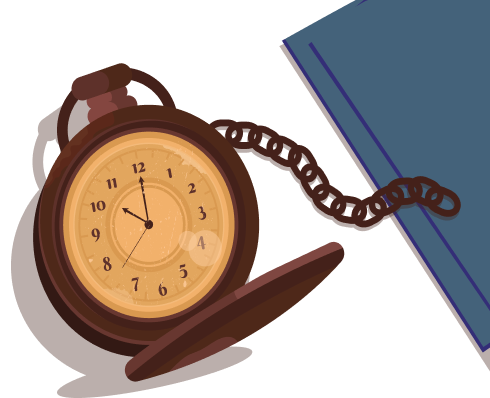
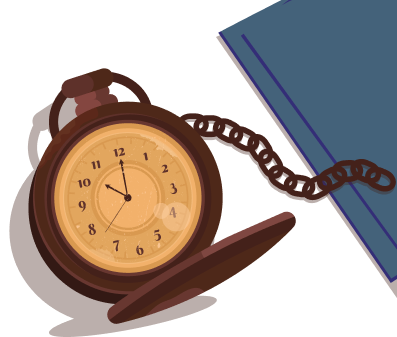
Registration form updated

diff --git a/Registration Form/style.css b/Registration Form/style.css
@@ -1,171 +1,67 @@
+@import url('https://fonts.googleapis.com/css2?family=Poppins&display=swap');
+@import url('https://fonts.googleapis.com/css2?family=Audiowide&display=swap');
+
 body{
   height: 100vh;
-  /* background: url('parts.png') no-repeat /*center  center/cover*/; 
-  background-color: rgb(35, 49, 87);
-  /* background-size: 100%; */
+}
+
+.hero-container{
   display: flex;
   flex-direction: column;
   align-items: center;
-  justify-content: center;
-}
-
-.card{
-  overflow: hidden;
-  border: 0 !important;
-  border-radius: 20px !important;
-  box-shadow: 0 0.5rem 1rem 0 rgba(0, 0, 0, 0.1);
-}
-
-.img-right{
-  width: 45%;
-  background: url('clock.png') center no-repeat;
-  background-size: contain;
-  background-color: #F4D366;
-  
-}
-
-.card-body{
-  padding: 2rem;
-  background-color: #F4D366;
-}
-
-.title{
-  margin-bottom: 2rem;
-}
-/* .......................... */
-
-
-/* .form-input{
-  position: relative;
-}
-
-.form-input input{
+  background-color: #233157;
+  background-image: url('./Images/Background.png');
+  background-repeat: repeat-y;
   width: 100%;
-  height: 45px;
-  padding-left: 40px;
+  height: 100vh;
+  padding-top: 60px;
+}
+
+.primary-title{
+  font-family: 'Audiowide', cursive;
+  margin-bottom: 40px;
+  color: white;
+}
+
+.secondary-title{
+  text-align: center;
+  font-size: 26px;
+  margin-bottom: 40px;
+  font-weight: 600;
+}
+
+.hero-form {
+  width: 900px;
+  background: #F4D366;
+  padding: 30px 0px 30px 30px;
+  border-radius: 40px;
+  font-family: 'Poppins', sans-serif !important;
+}
+
+.form{
+  width: 100%;
+}
+
+.form-container{
+  display: flex;
+}
+
+.form-component{
   margin-bottom: 20px;
-  box-sizing: border-box;
-  box-shadow: none;
-  border: 1px solid #00000020;
-  border-radius: 50px;
-  outline: none;
-  background: transparent;
 }
 
-.form-input span{
-  position: absolute;
-  top: 10px;
-  padding-left: 15px;
-  color: #007bff;
+.form-control{
+  background-color: transparent !important;
+  border: none !important;
+  border-bottom: 2px solid !important;
+  padding: 0px 5px !important;
 }
 
-.form-input input::placeholder{
-  color: black;
-  padding-left: 0px;
+.form-control:focus{
+  box-shadow: none !important;
 }
 
-.form-input input:focus, .form-input input:valid{
-  border: 2px solid #007bff;
-}
-
-.form-input input:focus::placeholder{
-  color: #454b69;
-}
-
-
-.form-box button[type="submit"]{
-  margin-top: 10px;
-  border: none;
-  cursor: pointer;
-  border-radius: 20px;
-  background: #44627A;
-  color: #fff;
-  font-size: 90%;
-  font-weight: bold;
-  letter-spacing: .1rem;
-  transition: 0.5s;
-  padding: 12px;
-  width: 30%;
-}
-
-.form-box button[type="submit"]:hover{
-  background: #0069d9;
-} */
-/* ........................... */
-
-/* 
-.button{
-  color: #fff;
-  margin-top: 40px;
-}
-.button input{
-  color: #fff;
-  padding: 0;
-  cursor: pointer;
-  transition: all 0.4s ease;
-  background: #53748E;
-  box-shadow: -3px 8px 4px rgba(0, 0, 0, 0.25);
-  border-radius: 22px;
-  width: 7rem;
-}
-
-.button input:hover{
-  background: #314d63;
-}
-
-.input-box input{
-  height: 100%;
-  width: 100%;
-  outline: none;
-  border: none;
-  font-size: 16px;
+.label{
+  margin-bottom: 0 !important;
   font-weight: 500;
-  border-bottom: 2px solid rgba(0,0,0,0.2);
-  transition: all 0.3s ease;
-  background:transparent;
-} */
-
-
-
-
-.input-boxes {
-  margin-top: 30px;
 }
-.forms .form-content .input-box{
-display: flex;
-align-items: center;
-height: 50px;
-width: 100%;
-margin: 5px 0;
-position: relative;
-}
-.input-box input{
-height: 100%;
-width: 80%;
-outline: none;
-border: none;
-font-size: 16px;
-font-weight: 500;
-border-bottom: 2px solid rgba(0,0,0,0.2);
-transition: all 0.3s ease;
-background:transparent;
-}
-
-.forms .form-content .button{
-color: rgb(255, 255, 255);
-margin-top: 40px;
-}
-.forms .form-content .button input{
-color: #fff;
-padding: 0;
-cursor: pointer;
-transition: all 0.4s ease;
-background: #53748E;
-box-shadow: -3px 8px 4px rgba(0, 0, 0, 0.25);
-border-radius: 22px;
-}
-.forms .form-content .button input:hover{
-background: #314d63;
-
-}
-

diff --git a/Registration Form/index.html b/Registration Form/index.html
@@ -7,59 +7,59 @@
   <meta name="viewport" content="width=device-width, initial-scale=1, shrink-to-fit=no">
   <link rel="stylesheet" type="text/css" href="style.css">
   <link rel="stylesheet" href="https://stackpath.bootstrapcdn.com/bootstrap/4.5.0/css/bootstrap.min.css">
+  <link href="https://fonts.googleapis.com/css2?family=Poppins&display=swap" rel="stylesheet">
   <link href="https://stackpath.bootstrapcdn.com/font-awesome/4.7.0/css/font-awesome.min.css" rel="stylesheet">
   <script src="https://code.jquery.com/jquery-3.5.1.slim.min.js"></script>
 </head>
 
 <body>
-  <div class="container">
-    <div class="row px-3">
-      <div class="col-lg-10 col-xl-9 card flex-row mx-auto px-0">
-        
-
-        <div class="card-body">
-          <h4 class="title text-center mt-4">
-            REGISTRATION FORM
-          </h4>
-
-          <form action="#">
-            <div class="input-boxes">
-              <label for="firstName">Firstname</label>
-              <div class="input-box">
-                <input type="text"  required>
-              </div>
-              <label for="collegeName">College Name</label>
-              <div class="input-box">
-                <input type="text"  required>
-              </div>
-              <label for="branch">Branch</label>
-              <div class="input-box">
-                <input type="text"  required>
-              </div>
-              <label for="Year">Year</label>
-              <div class="input-box">
-                <input type="text"  required>
-              </div>
-              <label for="phoneNum">Firstname</label>
-              <div class="input-box">
-                <input type="text"  required>
-              </div>
-              <label for="Email">Firstname</label>
-              <div class="input-box">
-                <input type="text" required>
-              </div>
-
-
-              
-
-            </div>
-          </form>
-          <button class="submit-button">Submit</button>
+  <section class="hero-container">
+  <h1 class="primary-title">TECHOPEDIA 10.0</h1>
+  
+    <div class="hero-form">
+    <h1 class="secondary-title">REGISTRATION FORM</h1>
+    <section class="form-container">
+      <form action="#" class="form">
+        <div class="form-component">
+         <label class="label"  for="name">Name</label>
+         <input type="text" class="form-control form-input" name="name" placeholder="Name" required>
         </div>
-        <div class="img-right d-none d-md-flex"></div>
+
+        <div class="form-component">
+         <label  class="label" for="college_name">College Name</label>
+         <input type="text" class="form-control" id="college_name" name="college_name" placeholder="College Name" required>
+        </div>
+
+        <div class="form-component">
+         <label class="label"  for="branch_name">Branch</label>
+         <input type="text" class="form-control" id="branch_name" name="branch_name" placeholder="Branch" required>
+        </div>
+
+        <div class="form-component">
+         <label class="label"  for="name">Year</label>
+         <input type="text" class="form-control" id="year" name="year" placeholder="Year" required>
+        </div>
+
+        <div class="form-component">
+         <label class="label"  for="name">Phone No.</label>
+         <input type="tel" class="form-control" id="phone" name="phone" placeholder="Phone Number"   pattern="[7-9]{1}[0-9]{9}">
+        </div>
+
+        <div class="form-component">
+          <label class="label"  for="name">Email ID</label>
+          <input type="email" class="form-control" id="email" name="email" placeholder="Enter your Email" required>
+         </div>
+        
+         <button type="submit" class="btn btn-primary">Register</button>
+      </form>
+
+      <div class="bg-image">
+        <img src="./Images/Clock.png" />
       </div>
+    </section>
+      
     </div>
-  </div>
+  </section>
 </body>
 
 </html>
